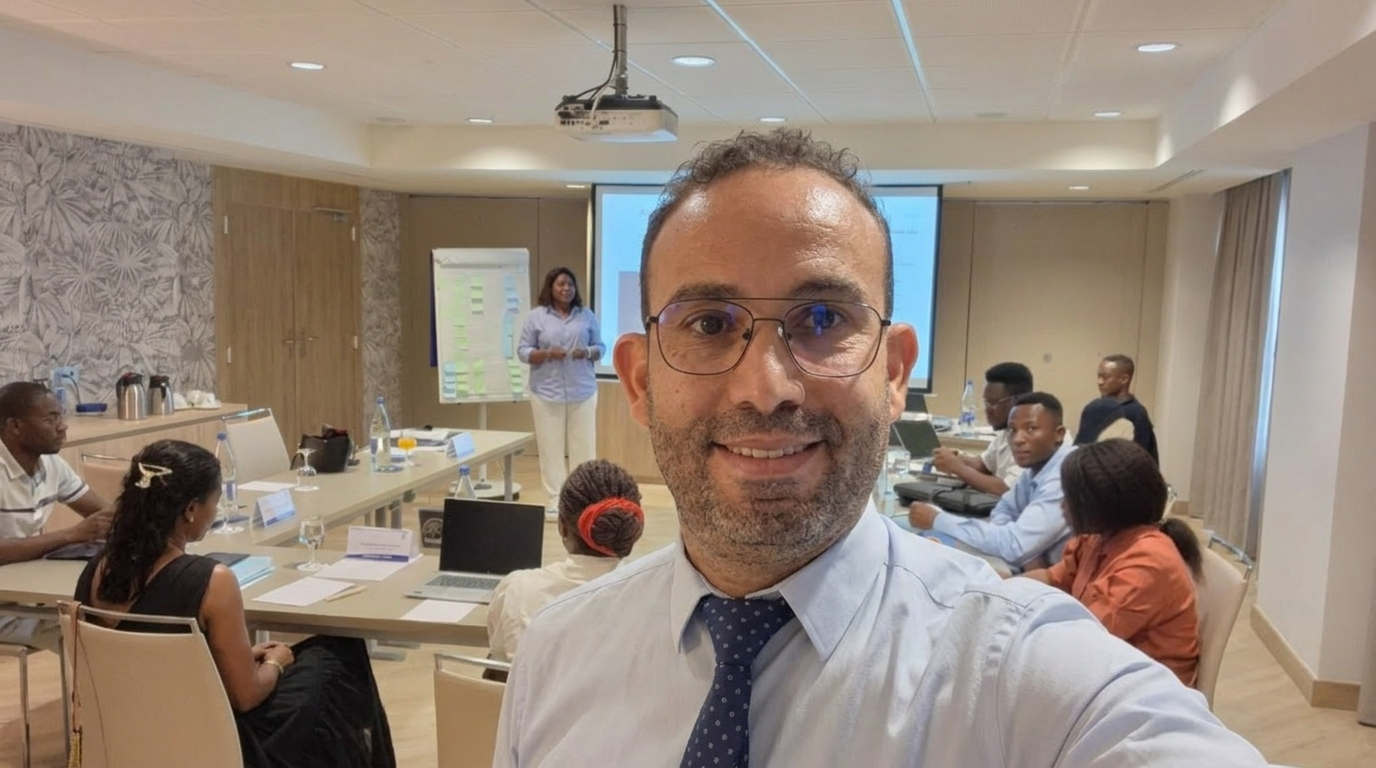
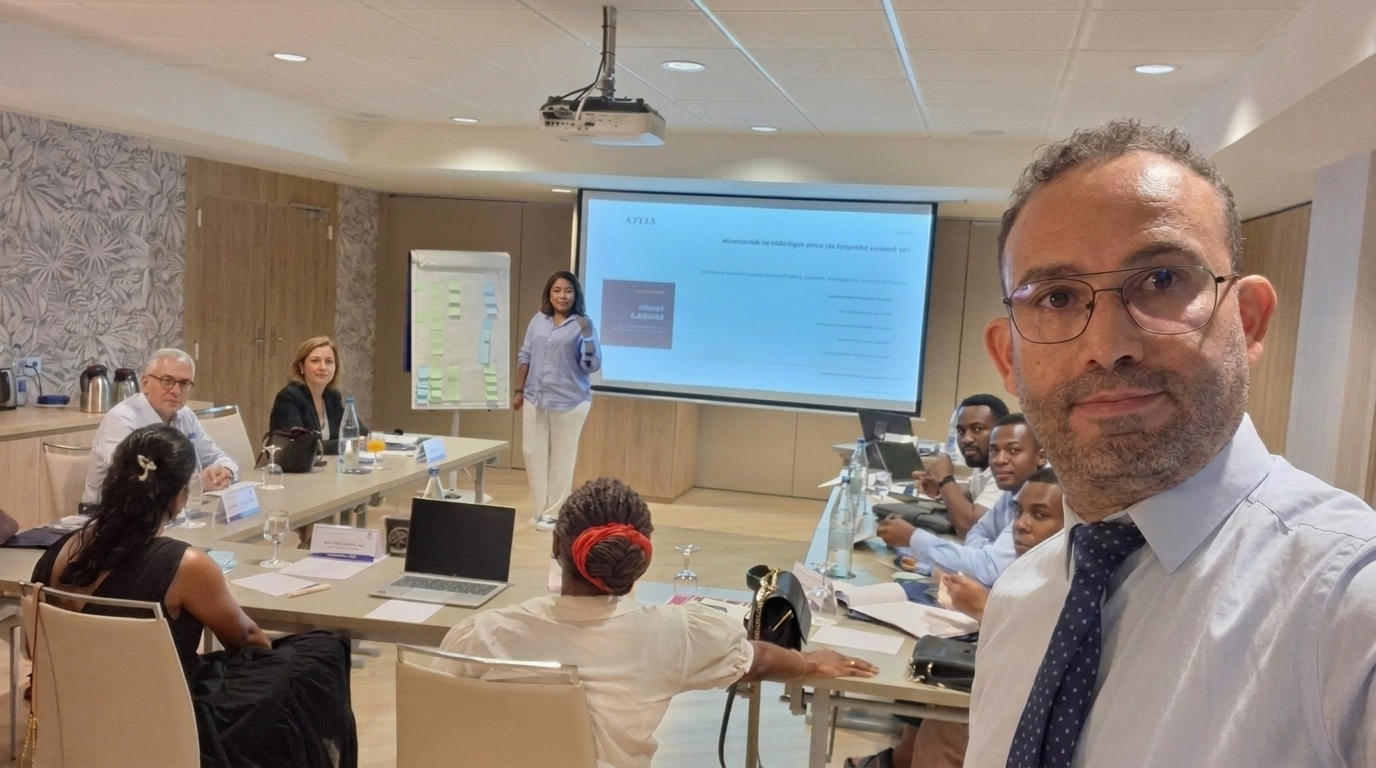
feat(marketing): photo du directeur en cadrage latéral avec visage complet et participants IA

diff --git a/platform/scripts/verifier-recus.ts b/platform/scripts/verifier-recus.ts
@@ -47,6 +47,7 @@ const dossier = await payload.create({
 });
 
 let chemin: string | undefined;
+let dossierSupprime = false;
 
 try {
   const octets = await readFile("public/images/marketing/catalogue-executive-clixa.jpg");
@@ -86,13 +87,32 @@ try {
   });
   dire("la fiche est créée et rattachée au dossier", Boolean(fiche.id));
 
-  await payload.delete({ collection: "recus", id: fiche.id, overrideAccess: true });
+  /*
+    ── Supprimer le dossier, et non la fiche ────────────────────────────────
+    La clef étrangère de `recus.dossier_id` est en « SET NULL » et la colonne
+    est obligatoire : sans le crochet `beforeDelete` d'`Inscriptions`, Postgres
+    refuse de vider le lien et c'est la suppression du dossier entier qui
+    échoue. Un dossier accompagné d'un justificatif devenait indestructible,
+    et le message parlait de contrainte, jamais de reçu.
+  */
+  await payload.delete({ collection: "inscriptions", id: dossier.id, overrideAccess: true });
+  dossierSupprime = true;
+
+  const resteLaFiche = await payload
+    .findByID({ collection: "recus", id: fiche.id, overrideAccess: true })
+    .catch(() => null);
+  dire("supprimer le dossier emporte le reçu", resteLaFiche === null);
+
   const apres = await lireRecu(chemin).catch(() => null);
-  dire("supprimer la fiche retire aussi le fichier du magasin", apres === null);
+  dire("et le fichier quitte le magasin avec lui", apres === null);
   chemin = undefined;
 } finally {
   if (chemin) await retirerRecu(chemin).catch(() => undefined);
-  await payload.delete({ collection: "inscriptions", id: dossier.id, overrideAccess: true });
+  if (!dossierSupprime) {
+    await payload
+      .delete({ collection: "inscriptions", id: dossier.id, overrideAccess: true })
+      .catch(() => undefined);
+  }
   console.log("  · dossier d'épreuve supprimé");
 }
 

diff --git a/platform/src/collections/Inscriptions.ts b/platform/src/collections/Inscriptions.ts
@@ -162,6 +162,34 @@ export const Inscriptions: CollectionConfig = {
         return doc;
       },
     ],
+    beforeDelete: [
+      async ({ id, req }) => {
+        /*
+          ── Un reçu ne survit pas à son dossier ───────────────────────────
+          La clef étrangère de `recus.dossier_id` est en « SET NULL », et la
+          colonne est obligatoire : Postgres refuse donc de vider le lien, et
+          c'est la suppression entière qui échoue. Un dossier accompagné d'un
+          justificatif devenait indestructible — ni par script, ni depuis
+          /admin, et le message parlait de contrainte, pas de reçu.
+
+          On les retire d'abord, par l'API : le crochet `afterDelete` de
+          `Recus` en profite pour effacer aussi le fichier dans le magasin. Une
+          suppression en SQL laisserait le fichier derrière, facturé et toujours
+          lisible par qui détient le jeton.
+        */
+        const { docs } = await req.payload.find({
+          collection: "recus",
+          where: { dossier: { equals: id } },
+          limit: 100,
+          depth: 0,
+          overrideAccess: true,
+        });
+
+        for (const recu of docs) {
+          await req.payload.delete({ collection: "recus", id: recu.id, overrideAccess: true });
+        }
+      },
+    ],
     beforeChange: [
       ({ data }) => {
         /*
